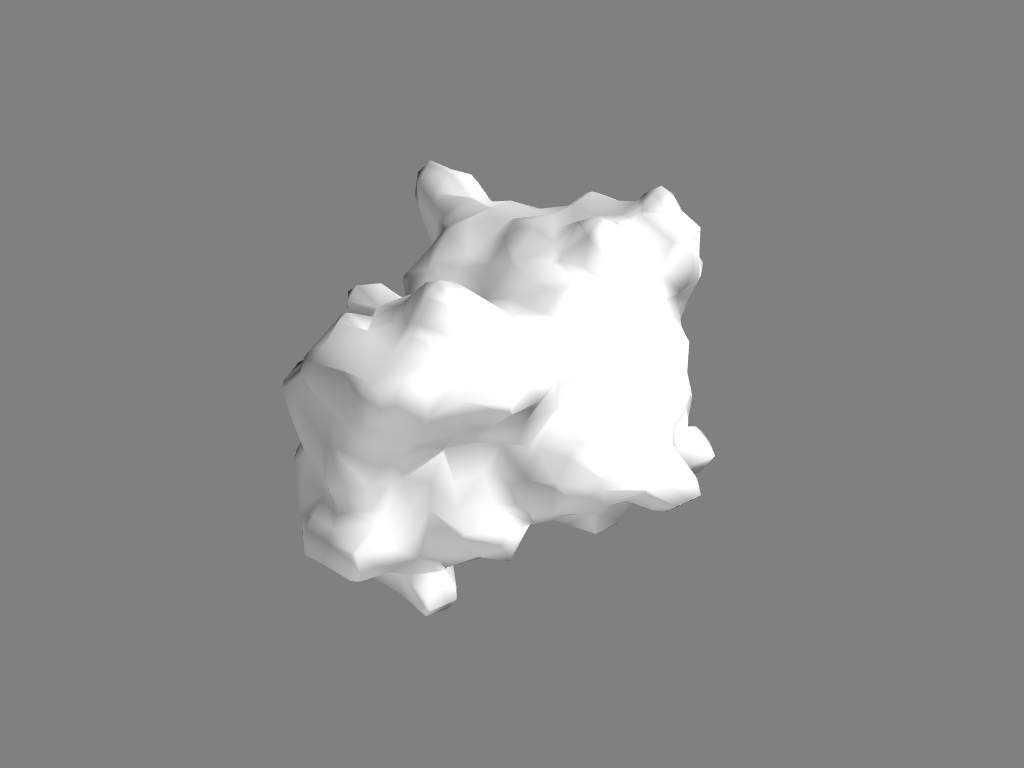
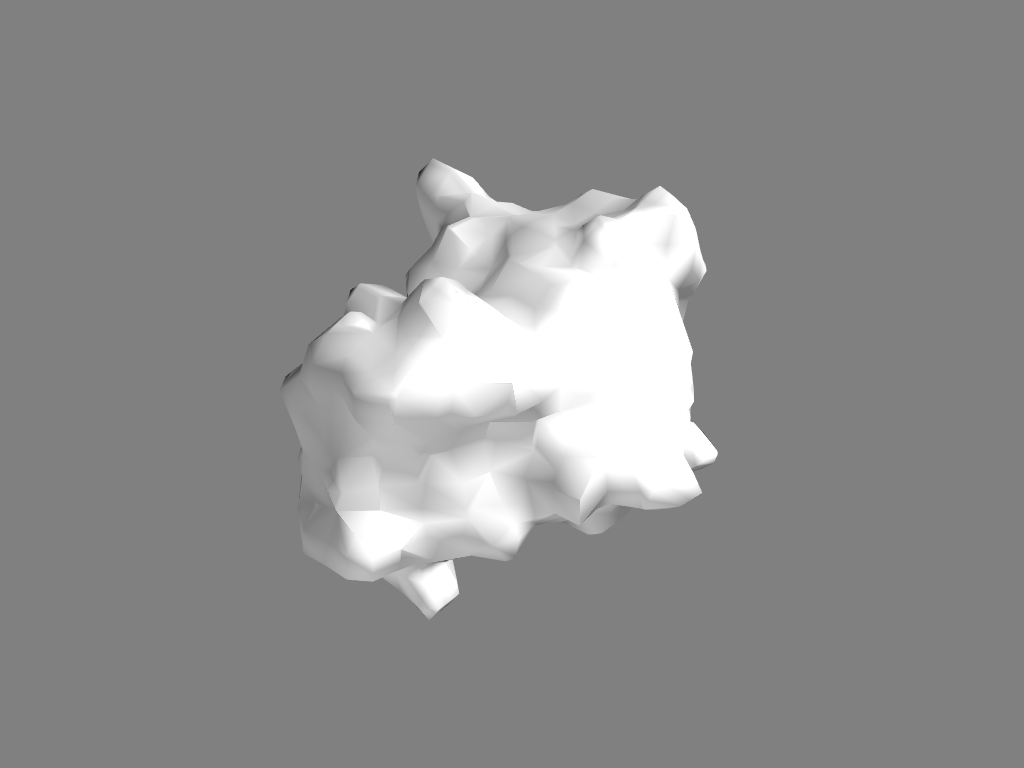
More fine tuning
+ push before realizing that native mesh features don't work/use msms

diff --git a/provis/src/processing/protein.py b/provis/src/processing/protein.py
@@ -14,7 +14,7 @@ class Protein:
     For example: my_protein.structure.plot_atoms()
     """
   
-    def __init__(self, pdb_name, base_path=None, density=3.0, plot_solvent=False, notebook=False):
+    def __init__(self, pdb_name, base_path=None, density=3.0, plot_solvent=False, msms=True, notebook=False):
         """
         Initialize the class with the name of the pdb file and you are ready for plotting!
         
@@ -28,14 +28,16 @@ class Protein:
         :param type: float, optional
         :param name: plot_solvent - If True solvent atoms will also be plotted. Default: False.
         :param type: bool, optional
+        :param name: msms - Set to True if you want to compute the surface information using the msms binary. If False surface will be computed natively. Default: False.
+        :param type: bool, optional
         :param name: notebook - Set to True when using running in a Jupyter Notebook environment. Default: False.
         :param type: bool, optional
         """
         if notebook:
             pyvista.set_jupyter_backend('panel')
         self._name_checker = NameChecker(pdb_name, base_path)
-        self._file_converter = FileConverter(self._name_checker)#, density, plot_solv=plot_solvent) 
-        self._data_handler =  DataHandler(self._name_checker, self._file_converter)
+        self._file_converter = FileConverter(self._name_checker, density=density, plot_solvent=plot_solvent) 
+        self._data_handler =  DataHandler(self._name_checker, fc=self._file_converter)
         self._surface_handler = SurfaceHandler( self._name_checker, fc=self._file_converter, dh=self._data_handler, density=density)
         self.structure = Structure(self._name_checker, dh=self._data_handler, notebook=notebook)
-        self.surface = Surface(self._name_checker, sh=self._surface_handler, density=density, msms=False, notebook=notebook, dh=None)
+        self.surface = Surface(self._name_checker, dh=self._data_handler, sh=self._surface_handler, density=density, msms=msms, notebook=notebook)

diff --git a/provis/src/processing/file_converter.py b/provis/src/processing/file_converter.py
@@ -12,7 +12,7 @@ class FileConverter():
     However if you want to plot the same protein many times, then it is benificial to keep the temporary (data/tmp) files as if they exist provis will not recompute them.
     """
     
-    def __init__(self, nc, density=None, plot_solv=0):
+    def __init__(self, nc, density=None, plot_solvent=0):
         """
         Can be constructed empty. If called with arguments conversions instant. Creates xyzr and mol2 files in every case and face and vert files if msms binary exists.
 
@@ -20,23 +20,16 @@ class FileConverter():
         :param type: str, optional
         :param name: density - Density of triangles. Default: None.
         :param type: float, optional
-        :param name: plot_solv - set to True if you want to plot solvent atoms as well. Default: False.
+        :param name: plot_solvent - set to True if you want to plot solvent atoms as well. Default: False.
         :param type: bool, optional
         :param name: base_path - Path to "working directory" according to the rules of NameChecker().
         :param type: str, optional
         """
 
-        self._solv = plot_solv
-        if nc:
-            self._path, self._out_path, self._base_path = nc.return_all()
-            # self.pdb_to_mol2(self._path, self._out_path)
-            # self.pdb_to_pqr(self._path, self._out_path)
-            # self.pdb_to_xyzrn(self._path, self._out_path)
+        self._solv = plot_solvent
+        self._path, self._out_path, self._base_path = nc.return_all()
         if density:
             self._dens = density
-        if nc and density:
-            self.msms(self._out_path, self._dens)
-        pass
     
     def pdb_to_xyzrn(self, path, output):
         """

diff --git a/examples/example3.py b/examples/example3.py
@@ -20,7 +20,7 @@ def main():
     density = 3.0
     solvent = 0
     
-    prot = Protein(name, density=density, plot_solvent=solvent)
+    prot = Protein(name, base_path=None, density=density, plot_solvent=solvent, msms=False, notebook=False)
     
     # prot.structure.plot_backbone()
     # prot.structure.plot_atoms()
@@ -33,12 +33,12 @@ def main():
     # r.remove_residue(1, 1)
     # prot.structure.plot(atoms=1, box=1, bonds=1, vw=0, residues=0, res=r, bb=0)
     
-    prot.surface.plot_surface()    
+    # prot.surface.plot_surface()    
     prot.surface.plot_hydrophob()
     prot.surface.plot_shape()
     prot.surface.plot_charge()
 
-    prot._file_converter.cleanup()
+    # prot._file_converter.cleanup()
 
 if __name__ == "__main__":
     main()

diff --git a/provis/src/plotting/surface.py b/provis/src/plotting/surface.py
@@ -16,7 +16,7 @@ class Surface:
     Choose between the two by setting the msms Boolean variable (True corresponding to the MSMS binary option is default)
     
     """
-    def __init__(self, nc, sh=None, density=None, msms=False, notebook=False, dh=None):
+    def __init__(self, nc, dh=None, sh=None, density=None, msms=False, notebook=False):
         """
         Initialize Surface class with given filename. Creates internal data structures; a DataHandler to extract basic surface information and stores it in self._atmsurf (this is a list of Spheres for each atom roughly equating the Van-der-Waals radius).
         
